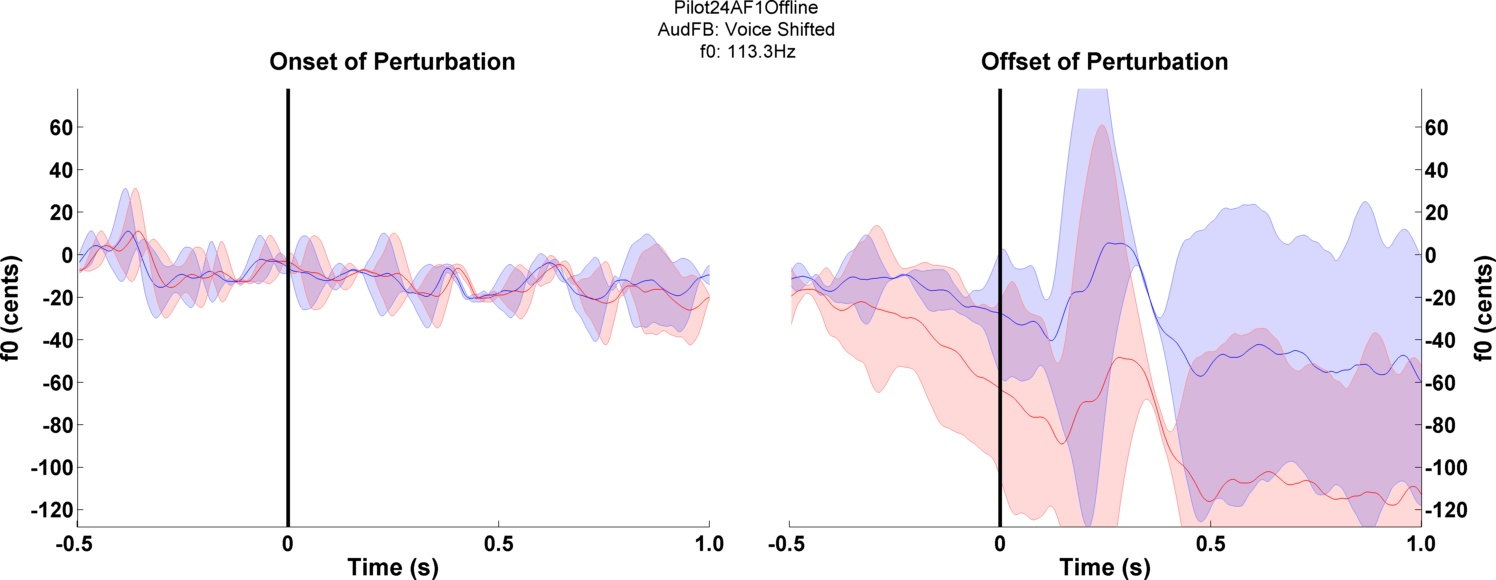
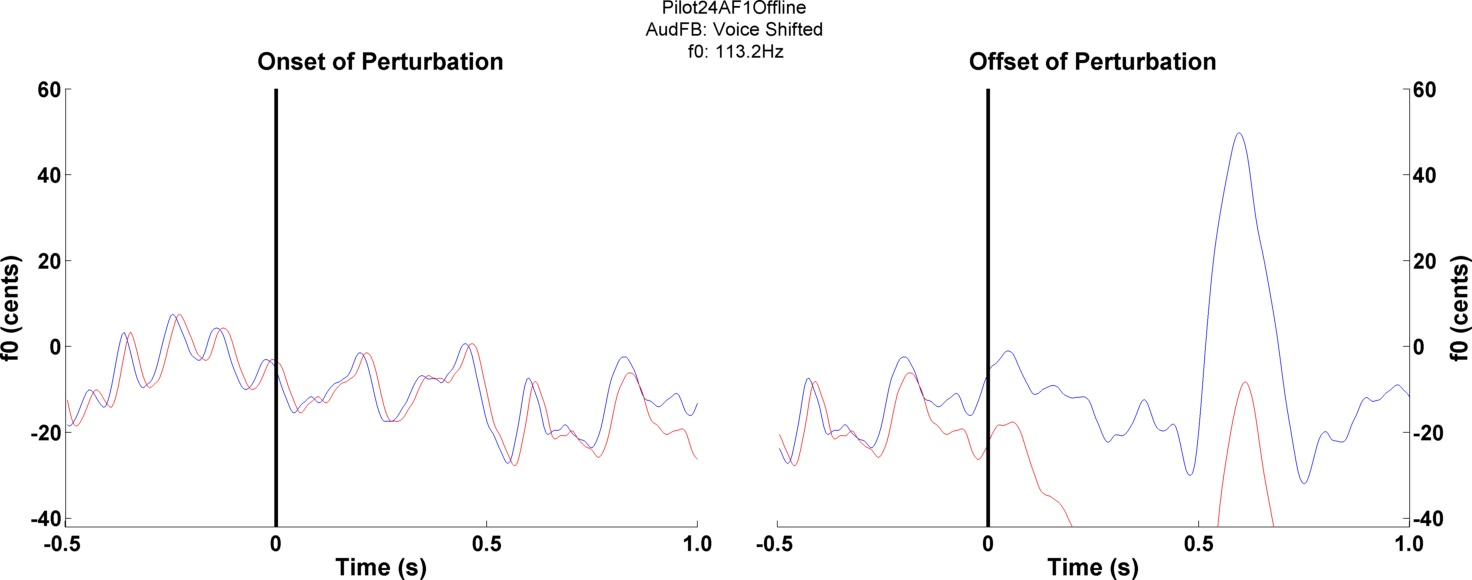
realized I had order of indices messed up
look specifically at AnalysisAudapter

diff --git a/Analysis/dfAnalysisAudapter.m b/Analysis/dfAnalysisAudapter.m
@@ -44,7 +44,7 @@ for ii = 1:auAn.numTrial
     Hraw = data.signalOut;    % Headphones
    
     auAn.audProcDel = data.params.frameLen*4;
-    [mic, head, saveT, saveTmsg] = preProc(Mraw, Hraw, auAn.sRate, auAn.numSamp, auAn.audProcDel, auAn.expTrigs(ii,1));
+    [mic, head, saveT, saveTmsg] = preProc(Mraw, Hraw, auAn.sRate, auAn.audProcDel, auAn.expTrigs(ii,1));
 
 %     OST  = data.ost_stat;
     if saveT == 0 %Don't save the trial :(
@@ -53,8 +53,8 @@ for ii = 1:auAn.numTrial
 
     end
 
-    auAn.audioM = cat(2, auAn.audioM, Mraw);
-    auAn.audioH = cat(2, auAn.audioH, Hraw);
+    auAn.audioM = cat(2, auAn.audioM, mic);
+    auAn.audioH = cat(2, auAn.audioH, head);
 end
 
 [auAn.ContTrials, auAn.contIdx] = find(auAn.trialType == 0);
@@ -62,8 +62,8 @@ end
 auAn.numContTrials = sum(auAn.ContTrials);
 auAn.numPertTrials = sum(auAn.PertTrials);
 
-auAn.contTrig = auAn.expTrigs(:, auAn.contIdx);
-auAn.pertTrig = auAn.expTrigs(:, auAn.pertIdx);
+auAn.contTrig = auAn.expTrigs(auAn.contIdx,:);
+auAn.pertTrig = auAn.expTrigs(auAn.pertIdx,:);
 
 %The Audio Analysis
 auAn = dfAnalysisAudio(dirs, auAn, AudFlag);
@@ -72,7 +72,7 @@ lims  = identifyLimits(auAn);
 auRes = packResults(auAn, lims);
 end
 
-function [micP, headP, saveT, saveTmsg] = preProc(micR, headR, fs, numSamp, audProcDel, spanSt)
+function [micP, headP, saveT, saveTmsg] = preProc(micR, headR, fs, audProcDel, spanSt)
 %This function performs pre-processing on the recorded audio data before
 %frequency analysis is applied. This function takes the following inputs:
 

diff --git a/Analysis/OfflineAudapterPlay.m b/Analysis/OfflineAudapterPlay.m
@@ -38,7 +38,7 @@ switch pertType
         pertTypeSw = 1;
 end
 
-collectNewData         = 0; %Boolean
+collectNewData         = 1; %Boolean
 
 %Experiment Configurations
 expParam.project      = 'Dissociating-Role-of-Feedback-in-Voice-Motor-Control';
@@ -50,7 +50,7 @@ expParam.gender       = answer{4};
 expParam.curSess      = [expParam.subject expParam.run];
 expParam.InflaVar     = answer{5};
 expParam.baseRun      = answer{6};
-expParam.numTrial     = 2;
+expParam.numTrial     = 1;
 expParam.curTrial     = [];
 expParam.perCatch     = 1.00;
 expParam.AudFB        = 'Voice Shifted';
